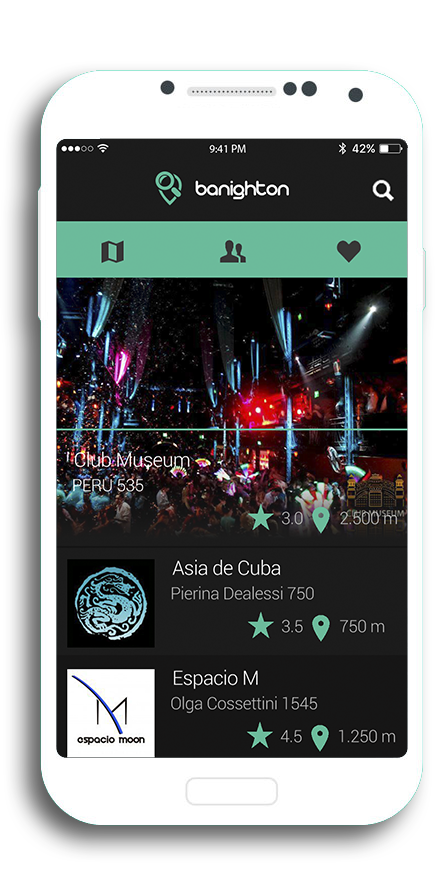
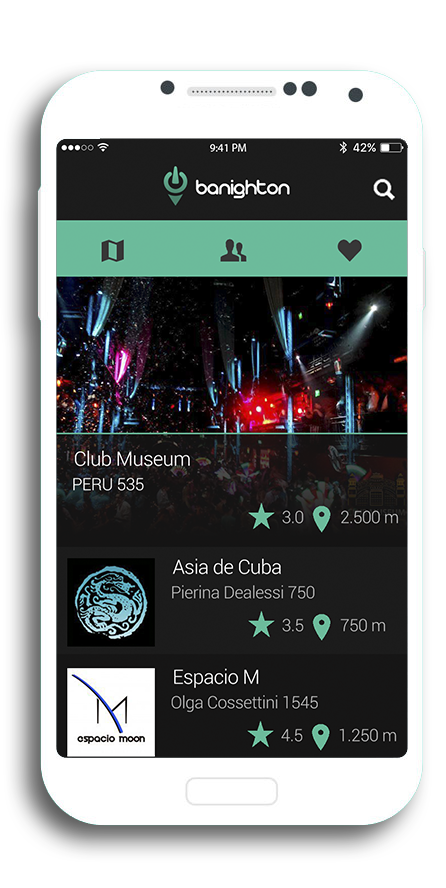
inicio 0.9

diff --git a/app/views/inicio.html b/app/views/inicio.html
@@ -37,7 +37,7 @@
 			    <h5></h5>
 			</div>
 		</div>
-		<div class="col s12 m5">
+		<div class="col s12 m5 wow fadeInUp" data-wow-duration="1s" data-wow-delay="0.5s">
 			<img src="./images/phone1.png">
 		</div>
 		<i class="ion-chatboxes icono-fondo"></i>
@@ -62,7 +62,7 @@
 			    <h5></h5>
 			</div>
 		</div>
-		<div ng-show="pushiar" class="col s12 m5">
+		<div ng-show="pushiar" class="col s12 m5 wow fadeInUp" data-wow-duration="1s" data-wow-delay="0.5s">
 			<img src="./images/phone2.png">
 		</div>
 		<i class="ion-ios-people icono-fondo"></i>
@@ -83,7 +83,7 @@
 			    <h5></h5>
 			</div>
 		</div>
-		<div class="col s12 m5">
+		<div class="col s12 m5 wow fadeInUp" data-wow-duration="1s" data-wow-delay="0.5s">
 			<img src="./images/phone3.png">
 		</div>
 		<i class="ion-map icono-fondo"></i>

diff --git a/app/index.html b/app/index.html
@@ -40,7 +40,7 @@
       <div class="row white-text">
         <div class="col s12">
           <div id="logo">
-            <img src="./images/Nlogo.svg">
+            <img src="./images/bnopin.svg">
             <div class="bno">banighton</div>
           </div>
           <div ng-show="!mobile" class="tactil">
